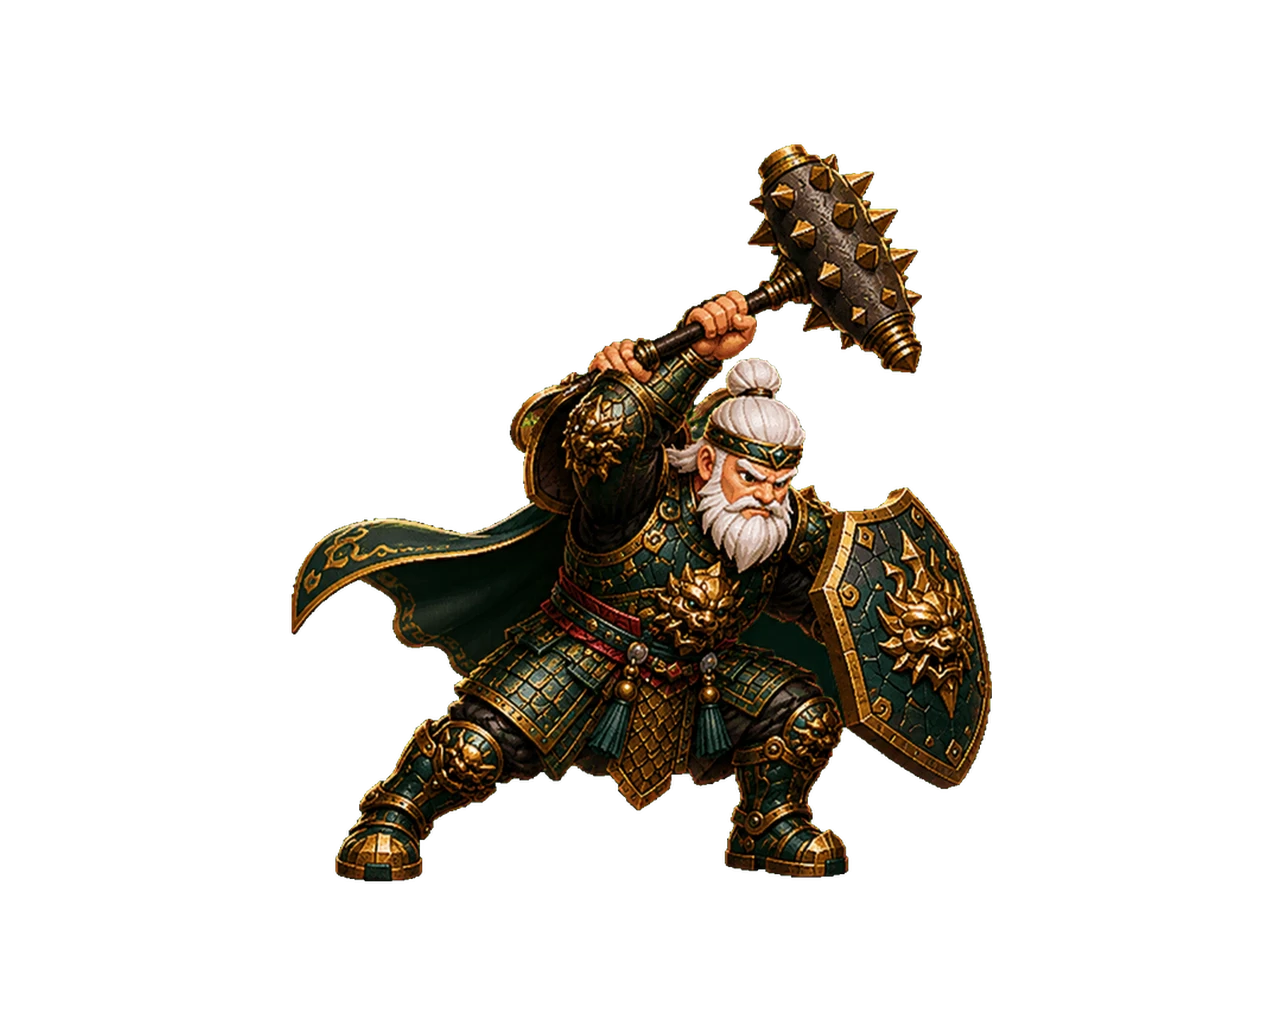
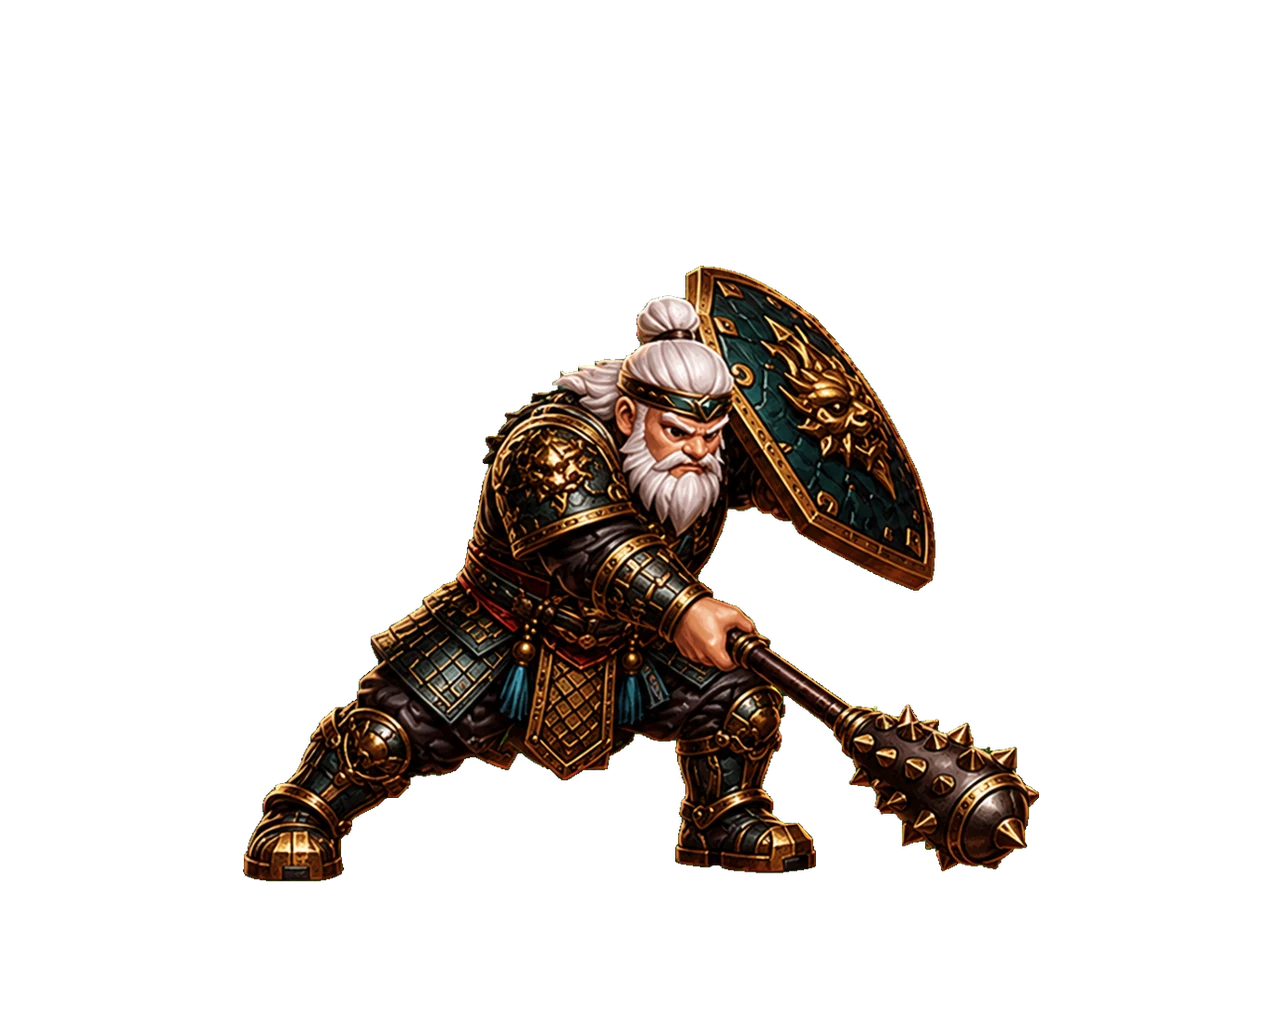
feat(일기토): 황개 강베기 가속 컷 반영

Changed region(s): [[0.1875, 0.125, 0.8125, 0.875]]

diff --git a/duel_v2.html b/duel_v2.html
@@ -804,7 +804,7 @@ const LOCAL_DEV = ['localhost', '127.0.0.1', ''].includes(location.hostname);
 // 외부 접속에서 쓰는 에셋 버전. **파일을 갈아 끼우면 이 숫자를 올려야 한다** —
 // 안 올리면 폰이 옛 그림을 계속 쓴다(배경 v2 를 넣었을 때 실제로 겪었다).
 // 태사자 9컷 · 마초 3컷 교체 → 8. 여포·태사자 '가속' 컷 3장씩 추가 → 9.
-const AV = LOCAL_DEV ? Date.now() : 36;
+const AV = LOCAL_DEV ? Date.now() : 37;
 const bust = u => u.replace(/\?v=[^&]*/, '') + '?v=' + AV;
 
 const ASSET_SRC = {
